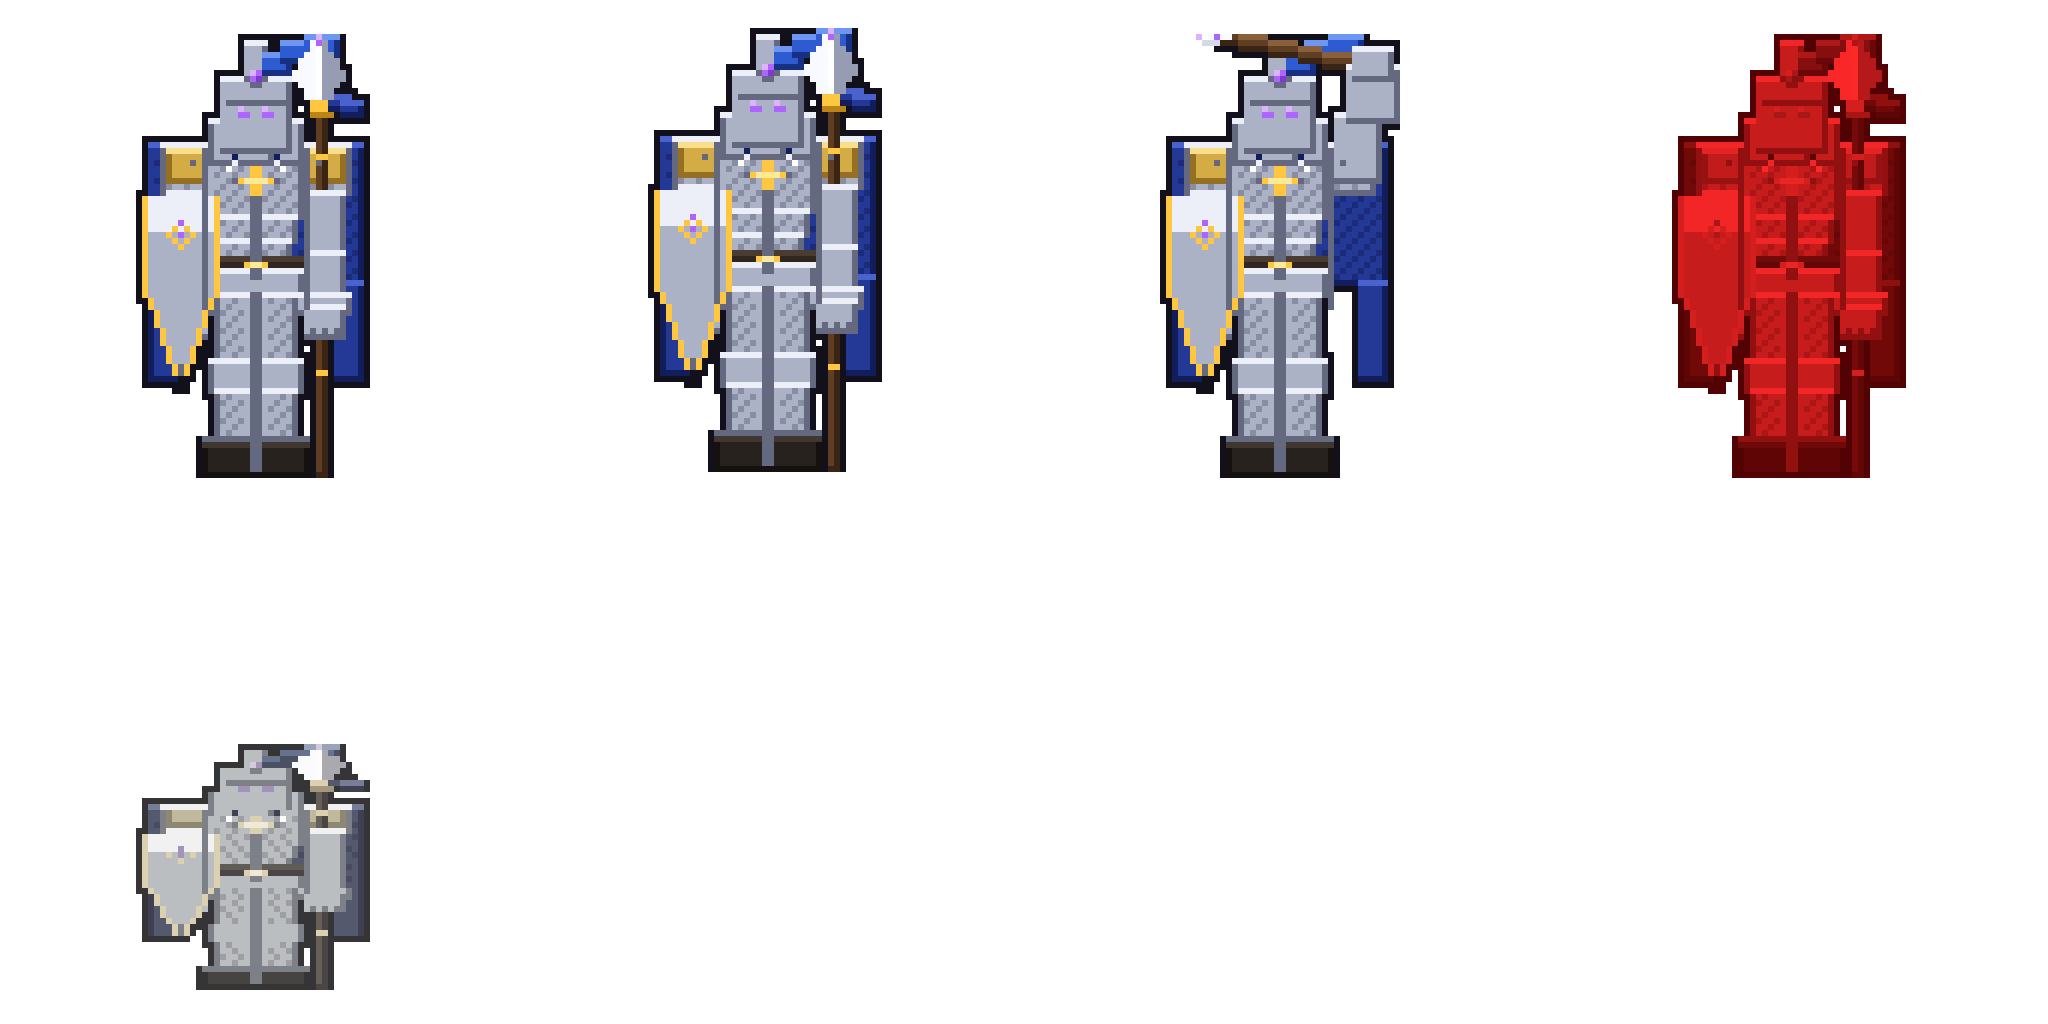
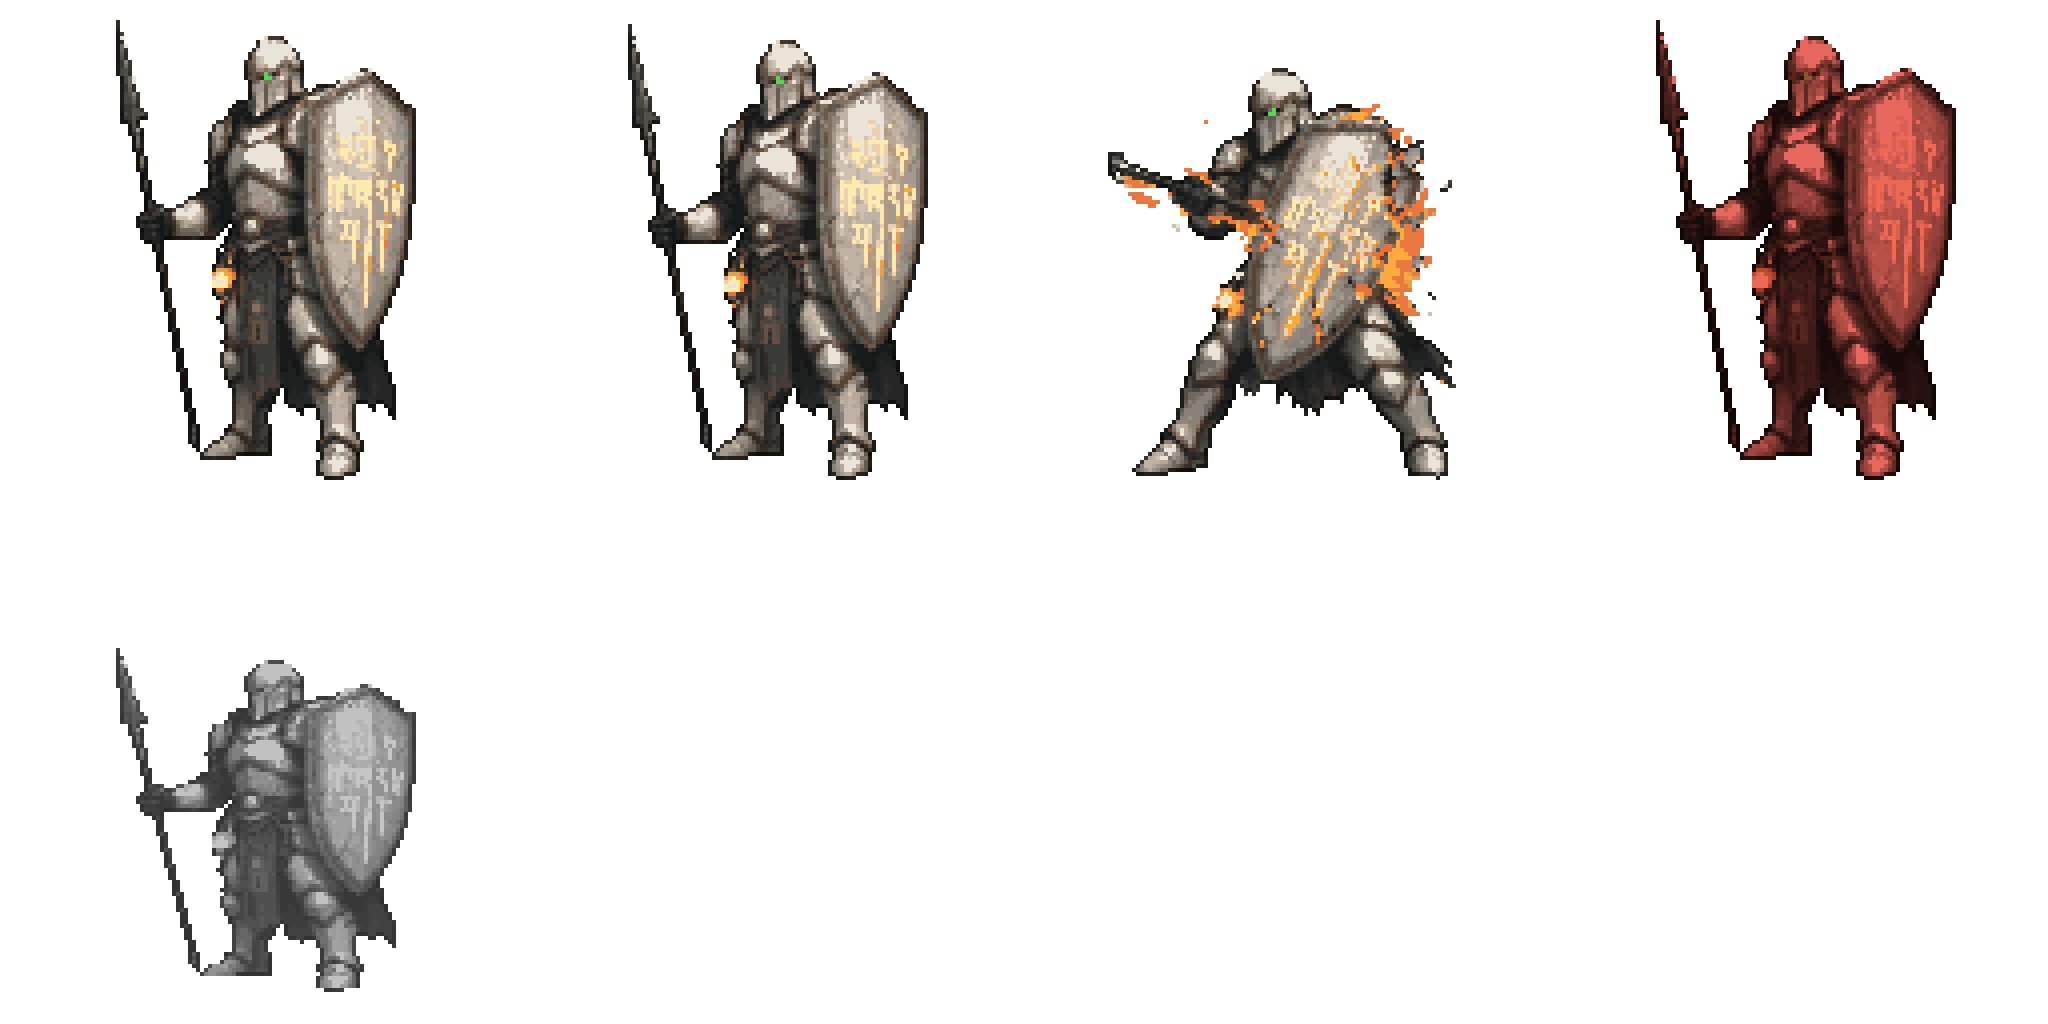
Redraw tomb_guardian as ivory stone warden in pixel art

diff --git a/assets/enemies/tools/cutout.py b/assets/enemies/tools/cutout.py
@@ -23,7 +23,17 @@ def _flood(w, h, seeds, ok):
     return reg
 
 
-def cutout(path, watermark=(1262, 1440, 1536, 1536), min_gap=300, bg_tol=3, alpha_min=0.03):
+def cutout(
+    path,
+    watermark=(1262, 1440, 1536, 1536),
+    min_gap=300,
+    bg_tol=3,
+    alpha_min=0.03,
+    grey_sat=None,
+    floor_y=None,
+):
+    # grey_sat: 设置后，背景区域里饱和度低于它的灰色像素（影子、灰雾、灰色速度线）直接去掉，有颜色的光效保留
+    # floor_y: 这一行以下，较深的灰色（地面影子）也算背景；遇到角色的深色描边会停下，不会吃进灰白色的靴子
     im = Image.open(path).convert("RGB")
     px = im.load()
     w, h = im.size
@@ -38,6 +48,8 @@ def cutout(path, watermark=(1262, 1440, 1536, 1536), min_gap=300, bg_tol=3, alph
 
     def light(x, y):
         s, v = sv[y][x]
+        if floor_y is not None and y >= floor_y and s < 0.12 and v > 0.42:
+            return True
         return v > 0.80 and s < 0.45
 
     border = [(x, 0) for x in range(w)] + [(x, h - 1) for x in range(w)]
@@ -76,6 +88,9 @@ def cutout(path, watermark=(1262, 1440, 1536, 1536), min_gap=300, bg_tol=3, alph
             r, g, b = px[x, y]
             if not reg[y * w + x]:
                 o[x, y] = (r, g, b, 255)
+                continue
+            if grey_sat is not None and sv[y][x][0] < grey_sat:
+                o[x, y] = (0, 0, 0, 0)
                 continue
             a = max(255 - r, 255 - g, 255 - b) / 255
             if a < alpha_min:

diff --git a/assets/enemies/tools/pixelate.py b/assets/enemies/tools/pixelate.py
@@ -70,13 +70,29 @@ def _shared_palette(smalls, colors, vivid_slots=6, glow_slots=3):
     reserved = (vivid_slots if vivid else 0) + (glow_slots if glow else 0)
     entries = _median_cut(base, colors - reserved)
     if vivid:
-        entries += _median_cut(vivid, vivid_slots)
+        entries += _vivid_entries(vivid, vivid_slots)
     if glow:
         entries += _median_cut(glow, glow_slots)
     flat = [c for rgb in entries for c in rgb]
     palette = Image.new("P", (1, 1))
     palette.putpalette(flat + flat[:3] * (256 - len(entries)))
     return palette
+
+
+def _vivid_entries(vivid, slots, hue_bins=12, min_pixels=3):
+    # 每种色相（绿、橙、红、青……）先保证至少一个名额，剩下的再按面积分，
+    # 这样少量但颜色独特的细节（比如绿眼睛）不会被大面积的同类色（比如琥珀色符文）吞掉
+    import colorsys
+
+    bins = {}
+    for p in vivid:
+        h = colorsys.rgb_to_hsv(*[c / 255 for c in p])[0]
+        bins.setdefault(int(h * hue_bins) % hue_bins, []).append(p)
+    groups = sorted((g for g in bins.values() if len(g) >= min_pixels), key=len, reverse=True)
+    entries = [tuple(sum(c[i] for c in g) // len(g) for i in range(3)) for g in groups[:slots]]
+    if len(entries) < slots:
+        entries += _median_cut(vivid, slots - len(entries))
+    return entries
 
 
 def _is_vivid(rgb):

diff --git a/assets/enemies/README.md b/assets/enemies/README.md
@@ -28,6 +28,10 @@ Smooth frames (`frames/`):
   Floating enemies sit above that line.
 - `void_knight` was brightened with `tools/brighten.py` (gamma 0.5, rim 0.55) so it reads against the
   dark dungeon background.
+- `tomb_guardian` was redrawn (ivory stone armour, bronze trim, rune shield). Its source images have a
+  light grey background and a floor shadow, so `tools/cutout.py` was run with `grey_sat` (drops grey
+  shadow and haze) and, for the idle image only, `floor_y` (treats darker grey below the feet as
+  background while stopping at the boots' outline).
 
 Pixel-art frames (`frames_pixel/`):
 
